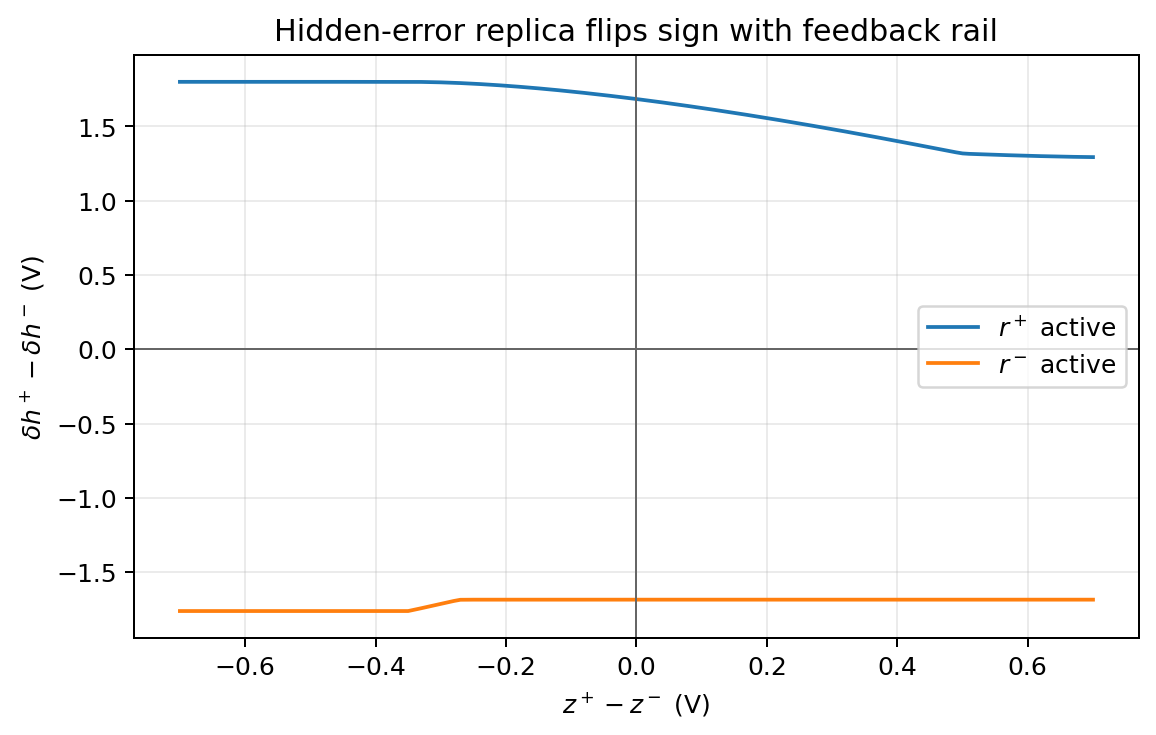
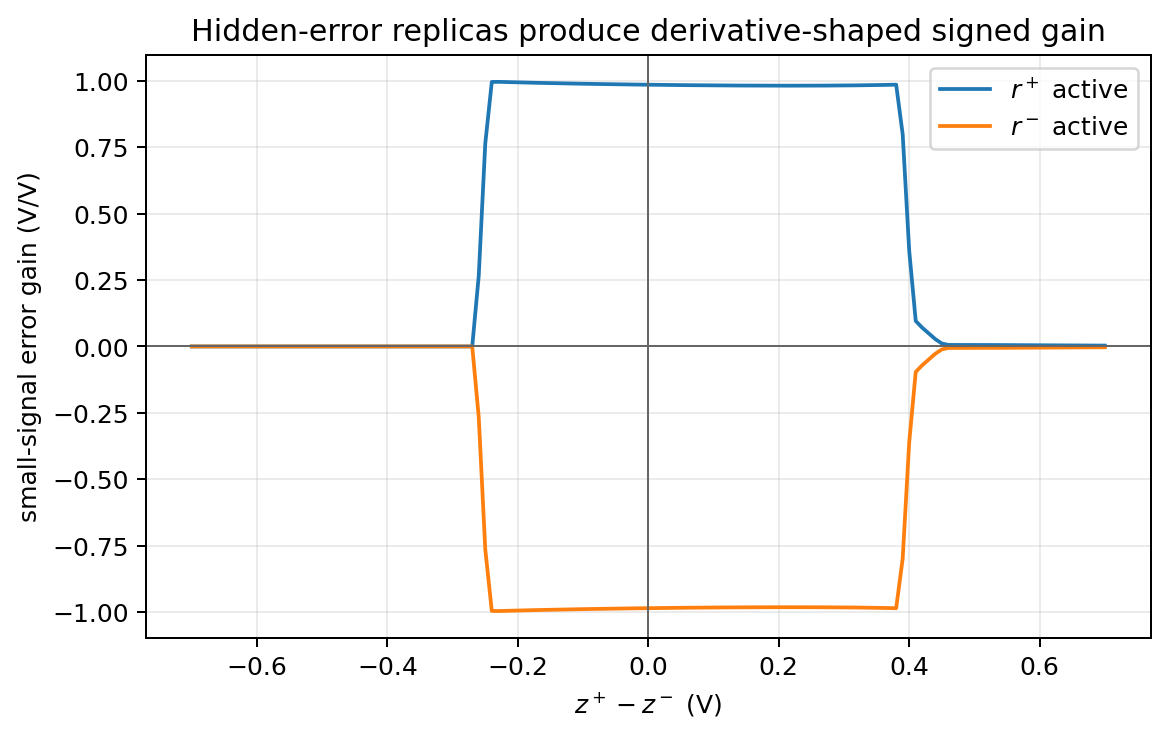
Tighten MOS component characterizations

diff --git a/spice/run_mos_cell_characterization.py b/spice/run_mos_cell_characterization.py
@@ -29,6 +29,11 @@ COMMON_MODELS = """
 """
 
 
+def require(condition: bool, message: str) -> None:
+    if not condition:
+        raise AssertionError(message)
+
+
 def run_ngspice(deck: str, stem: str) -> Path:
     RESULT_DIR.mkdir(parents=True, exist_ok=True)
     deck_path = RESULT_DIR / f"{stem}.cir"
@@ -39,7 +44,11 @@ def run_ngspice(deck: str, stem: str) -> Path:
         check=True,
         cwd=RESULT_DIR,
     )
-    return RESULT_DIR / f"{stem}.dat"
+    data_path = RESULT_DIR / f"{stem}.dat"
+    # ngspice wrdata pads rows with a trailing space.  Keep committed
+    # characterization data diff-clean without changing the numeric content.
+    data_path.write_text("\n".join(line.rstrip() for line in data_path.read_text().splitlines()) + "\n")
+    return data_path
 
 
 def load_wrdata(path: Path, series_count: int) -> tuple[np.ndarray, list[np.ndarray]]:
@@ -66,7 +75,7 @@ def characterize_synapse() -> Path:
 * Signed MOS synapse slice sanity check
 {COMMON_MODELS}
 VXP xp 0 0.2
-VXM xm 0 0.4
+VXM xm 0 0.9
 
 * Positive-weight copy: w+ high, w- low.
 VWPP wpp 0 1.8
@@ -103,7 +112,11 @@ quit
     # positive current means a positive signed contribution to z.
     pos_signed = cols[0] - cols[1]
     neg_signed = cols[2] - cols[3]
-    xdiff = x - 0.4
+    xdiff = x - 0.9
+    require(np.mean(pos_signed[xdiff > 0.2]) > 0, "w+ branch should be positive for x+ > x-")
+    require(np.mean(pos_signed[xdiff < -0.2]) < 0, "w+ branch should be negative for x+ < x-")
+    require(np.mean(neg_signed[xdiff > 0.2]) < 0, "w- branch should be negative for x+ > x-")
+    require(np.mean(neg_signed[xdiff < -0.2]) > 0, "w- branch should be positive for x+ < x-")
     fig, ax = plt.subplots(figsize=(7.2, 4.2))
     ax.plot(xdiff, 1e6 * pos_signed, label="$w^+$ high")
     ax.plot(xdiff, 1e6 * neg_signed, label="$w^-$ high")
@@ -140,11 +153,15 @@ quit
 """
     data = run_ngspice(deck, "mos_forward_pair")
     x, cols = load_wrdata(data, 2)
+    xdiff = x - 0.9
+    signed = cols[1] - cols[0]
+    require(np.all(np.diff(signed) >= -1e-4), "forward pair transfer should be monotone")
+    require(abs(signed[np.argmin(np.abs(xdiff))]) < 1e-3, "forward pair should be centered near zero")
     fig, ax = plt.subplots(figsize=(7.2, 4.2))
     # The diode-connected PMOS load is voltage-inverting: the rail that sinks
     # more differential-pair current moves lower.  Plot the usable signed load
     # voltage convention so the transfer rises with z+ - z-.
-    ax.plot(x - 0.9, cols[1] - cols[0], label="$h^- - h^+$")
+    ax.plot(xdiff, signed, label="$h^- - h^+$")
     ax.axhline(0, color="0.4", linewidth=0.8)
     ax.axvline(0, color="0.4", linewidth=0.8)
     ax.set_xlabel("$z^+ - z^-$ (V)")
@@ -156,56 +173,67 @@ quit
 
 
 def characterize_hidden_error() -> Path:
+    eps = 0.01
     deck = f"""
-* Hidden-error replica pair sanity check
+* Hidden-error finite-difference replica-pair sanity check.
+* The small-signal nudge is applied to the swept preactivation rail so this
+* measures the local slope of the same MOS forward transfer plotted above.
 {COMMON_MODELS}
+.param EPS={eps}
 VDD vdd 0 1.8
 VZP zp 0 0.2
 VZM zm 0 0.9
-VPBWD pbwd 0 1.1
+VTAIL vbias 0 0.95
 
-* Positive feedback copy: r+ low turns on the positive PMOS load.
-VRPP rpp 0 0.25
-VRMP rmp 0 1.55
-MPP dhpp rpp vdd vdd PMOS L={{LCH}} W={{WP}}
-MPM dhmp rmp vdd vdd PMOS L={{LCH}} W={{WP}}
-MNP dhpp zp tailp 0 NMOS L={{LCH}} W={{WN}}
-MNM dhmp zm tailp 0 NMOS L={{LCH}} W={{WN}}
-MNTP tailp pbwd 0 0 NMOS L={{LCH}} W={{WN}}
-RLP dhpp 0 5Meg
-RLM dhmp 0 5Meg
+* Testbench nudges: p-copy uses z+ + eps.
+VZP_P zpp zp {{EPS}}
+* m-copy uses z+ - eps.
+VZP_M zp zpm {{EPS}}
 
-* Negative feedback copy: r- low turns on the negative PMOS load.
-VRPN rpn 0 1.55
-VRMN rmn 0 0.25
-MPPN dhpn rpn vdd vdd PMOS L={{LCH}} W={{WP}}
-MPMN dhmn rmn vdd vdd PMOS L={{LCH}} W={{WP}}
-MNPN dhpn zp tailn 0 NMOS L={{LCH}} W={{WN}}
-MNMN dhmn zm tailn 0 NMOS L={{LCH}} W={{WN}}
-MNTN tailn pbwd 0 0 NMOS L={{LCH}} W={{WN}}
-RLPN dhpn 0 5Meg
-RLMN dhmn 0 5Meg
+* Positive nudge replica.
+MPPP hpp hpp vdd vdd PMOS L={{LCH}} W={{WP}}
+MPPM hpm hpm vdd vdd PMOS L={{LCH}} W={{WP}}
+MNPP hpp zpp tailp 0 NMOS L={{LCH}} W={{WN}}
+MNPM hpm zm tailp 0 NMOS L={{LCH}} W={{WN}}
+MNTP tailp vbias 0 0 NMOS L={{LCH}} W={{WN}}
+
+* Negative nudge replica.
+MPMP hmp hmp vdd vdd PMOS L={{LCH}} W={{WP}}
+MPMM hmm hmm vdd vdd PMOS L={{LCH}} W={{WP}}
+MNMP hmp zpm tailm 0 NMOS L={{LCH}} W={{WN}}
+MNMM hmm zm tailm 0 NMOS L={{LCH}} W={{WN}}
+MNTM tailm vbias 0 0 NMOS L={{LCH}} W={{WN}}
 
 .control
 set noaskquit
 dc VZP 0.2 1.6 0.01
-wrdata mos_hidden_error.dat v(dhpp) v(dhmp) v(dhpn) v(dhmn)
+wrdata mos_hidden_error.dat v(hpp) v(hpm) v(hmp) v(hmm)
 quit
 .endc
 .end
 """
     data = run_ngspice(deck, "mos_hidden_error")
     x, cols = load_wrdata(data, 4)
-    pos_fb = cols[0] - cols[1]
-    neg_fb = cols[2] - cols[3]
+    xdiff = x - 0.9
+    signed_plus_nudge = cols[1] - cols[0]
+    signed_minus_nudge = cols[3] - cols[2]
+    gain = (signed_plus_nudge - signed_minus_nudge) / (2.0 * eps)
+    pos_fb = gain
+    neg_fb = -gain
+    center_gain = gain[np.argmin(np.abs(xdiff))]
+    edge_gain = max(float(np.mean(gain[xdiff < -0.45])), float(np.mean(gain[xdiff > 0.45])))
+    require(center_gain > 0.5, "hidden-error derivative gain should be positive near z balance")
+    require(edge_gain < 0.65 * center_gain, "hidden-error derivative gain should fall at saturated z")
+    require(np.all(pos_fb > -1e-4), "positive feedback gain should stay nonnegative")
+    require(np.all(neg_fb < 1e-4), "negative feedback gain should stay nonpositive")
     fig, ax = plt.subplots(figsize=(7.2, 4.2))
     ax.plot(x - 0.9, pos_fb, label="$r^+$ active")
     ax.plot(x - 0.9, neg_fb, label="$r^-$ active")
     ax.axhline(0, color="0.4", linewidth=0.8)
     ax.axvline(0, color="0.4", linewidth=0.8)
     ax.set_xlabel("$z^+ - z^-$ (V)")
-    ax.set_ylabel("$\\delta h^+ - \\delta h^-$ (V)")
-    ax.set_title("Hidden-error replica flips sign with feedback rail")
+    ax.set_ylabel("small-signal error gain (V/V)")
+    ax.set_title("Hidden-error replicas produce derivative-shaped signed gain")
     ax.grid(True, alpha=0.25)
     ax.legend()
     return save_plot(fig, "mos_hidden_error_ngspice")
@@ -256,6 +284,8 @@ quit
 """
     data = run_ngspice(deck, "mos_writer")
     t, cols = load_wrdata(data, 5)
+    require(cols[0][-1] < 0.2 and cols[1][-1] > 1.7, "same-sign writer should select only W+")
+    require(cols[3][-1] < 0.2 and cols[2][-1] > 1.7, "opposite-sign writer should select only W-")
     fig, axes = plt.subplots(2, 1, figsize=(7.2, 5.2), sharex=True)
     axes[0].plot(1e6 * t, cols[0], label="$W^+$, same sign")
     axes[0].plot(1e6 * t, cols[1], label="$W^-$, same sign")

diff --git a/docs/spicenn_progress_note.tex b/docs/spicenn_progress_note.tex
@@ -326,12 +326,13 @@ The cell is differential throughout the signed path.  A one-pixel signed
 synapse slice steers input charge into the positive or negative preactivation
 rail according to differential weight capacitors.  A source-degenerated MOS
 differential pair gives the tanh-like forward nonlinearity.  A replica
-transconductor forms the local derivative/error current.  The writer is a
-four-quadrant MOS coincidence cell: two same-sign branches select the positive
-weight capacitor and two opposite-sign branches select the negative weight
-capacitor.  Whether the selected branch charges or discharges depends on the
-chosen memory polarity; the local requirement is branch selectivity and signed
-update direction.
+transconductor, or equivalently a pair of small-signal-nudged replicas, forms
+the local derivative/error current.  The writer is a four-quadrant MOS
+coincidence cell: two same-sign branches select the positive weight capacitor
+and two opposite-sign branches select the negative weight capacitor.  Whether
+the selected branch charges or discharges depends on the chosen memory
+polarity; the local requirement is branch selectivity and signed update
+direction.
 
 \begin{figure}[H]
   \centering
@@ -512,10 +513,16 @@ update direction.
 \end{figure}
 
 The expected small-signal relationships are transistor relationships, not
-equation-only source definitions:
+equation-only source definitions.  With the simple Level-1 devices used in the
+testbench the forward transfer is closer to a bounded hard-tanh than a
+subthreshold tanh, but the required signs are the same:
 \[
   I_{h^+}-I_{h^-}
   \approx I_b\tanh\!\left(\frac{\kappa(V_{z^+}-V_{z^-})}{2V_T}\right),
+\]
+\[
+  \delta h \propto r\,
+    \frac{\partial (V_{h^-}-V_{h^+})}{\partial V_{z^+}},
 \]
 \[
   I_{W^+}\propto pacc\,(x^+dh^+ + x^-dh^-),\qquad
@@ -564,10 +571,12 @@ must satisfy before it can replace the current behavioral prototype.
 \begin{figure}[H]
   \centering
   \includegraphics[width=0.88\linewidth]{figures/mos_hidden_error_ngspice.png}
-  \caption{Ngspice DC characterization of the hidden-error replica pair.  The
-  \(r^+\) and \(r^-\) feedback rails produce opposite signs on
-  \(\delta h^+ - \delta h^-\), so the cell can transport signed hidden error
-  without a behavioral error source.}
+  \caption{Ngspice DC characterization of the hidden-error replica pair.  Two
+  matched MOS forward replicas are nudged by \(+10\) mV and \(-10\) mV on the
+  swept preactivation rail, and the finite difference gives the local
+  small-signal gain.  The \(r^+\) and \(r^-\) feedback polarities select
+  opposite signs, so the cell can transport signed hidden error without a
+  behavioral error source.}
   \label{fig:mos-hidden-error-ngspice}
 \end{figure}
 

diff --git a/engineering_log.md b/engineering_log.md
@@ -2,6 +2,7 @@
 
 ## 2026-05-24
 
+- Tightened the MOS basic-component characterizations so the plots now fail loudly when the measured behavior is wrong. The ngspice plot script asserts signed synapse polarity, monotone centered forward transfer, derivative-gated hidden-error polarity, and four-quadrant writer selectivity. Reworked the hidden-error plot from a saturated rail-selection check into a paired MOS-replica finite-difference measurement of the actual forward-pair small-signal gain; this exposes a hard-tanh-like derivative window instead of pretending the Level-1 MOS pair is an ideal tanh derivative.
 - Added ngspice-generated single-cell characterization plots for the MOS replacement target. The new `spice/run_mos_cell_characterization.py` script emits four Level-1 MOS decks, runs ngspice, and writes paper figures for the signed synapse slice, forward differential pair, hidden-error replica pair, and four-quadrant writer. The plots validate local sign reversal, monotone bounded activation transfer, signed hidden-error rail selection, and update-branch selectivity; they remain single-cell sanity checks rather than process-calibrated or MNIST-scale transistor validation.
 - Added the first repository-level `TrainableDynamicalCell` foundation under `spicenn/cell`. The new contracts split coarse `ProtocolFamily` from rich `LearningProtocol` objects, declare typed rail bundles, state roles/access policies, cell capabilities/roles, characterization promotion levels, and tagged emitted elements. Added an experiment-mode linter that allows public ports, cell-owned core/write elements, initial conditions, and passive probes, while rejecting debug/characterization-only elements or external active sources on internal state nodes. This is the scaffolding needed to swap behavioral tanh, transistor tanh, DFA, EqProp, crossbar, reservoir, and spiking eligibility cells without letting characterization helpers leak into headline experiments.
 - Corrected the paper's goal framing after the neuron-circuit clarification. The 90.15% run remains useful architectural evidence, but it no longer counts as the achieved final goal because it uses behavioral current equations for the neuron/write cells and local-PCA sample ordering for source compression. The paper now treats local-PCA as a rejected simulator convenience rather than a realistic training assumption, and it states the remaining target explicitly: realistic sample order, device-level neuron/write circuits, one uninterrupted transient, batch size 1, no Python neural-state updates/checkpoints, and >90% full MNIST accuracy.
